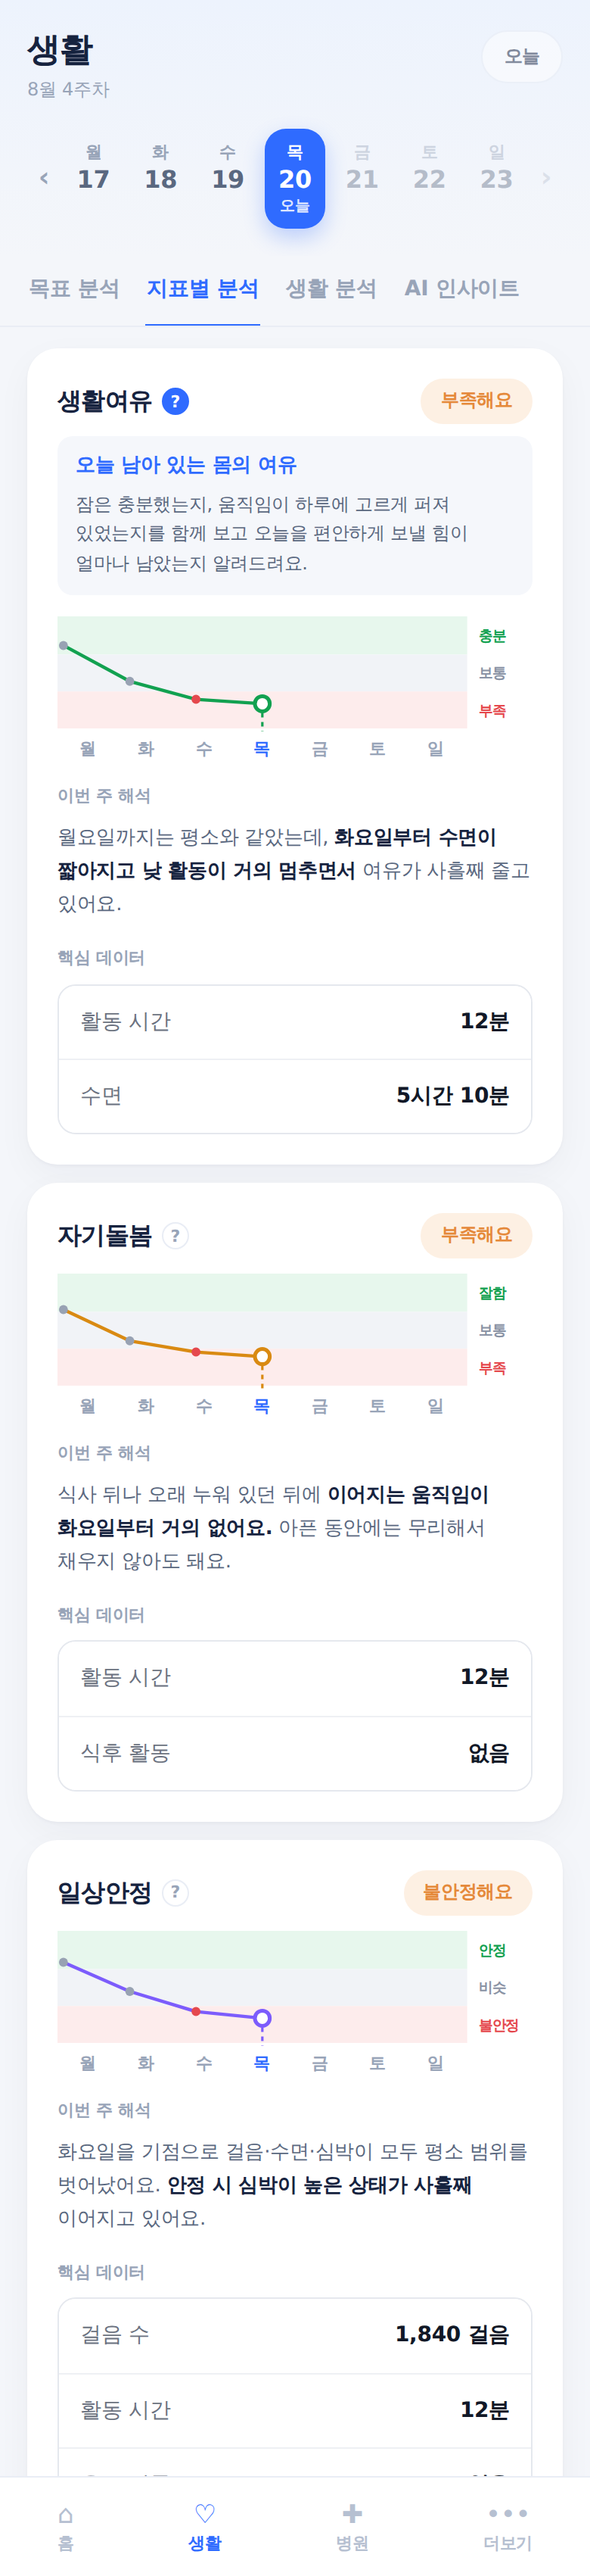
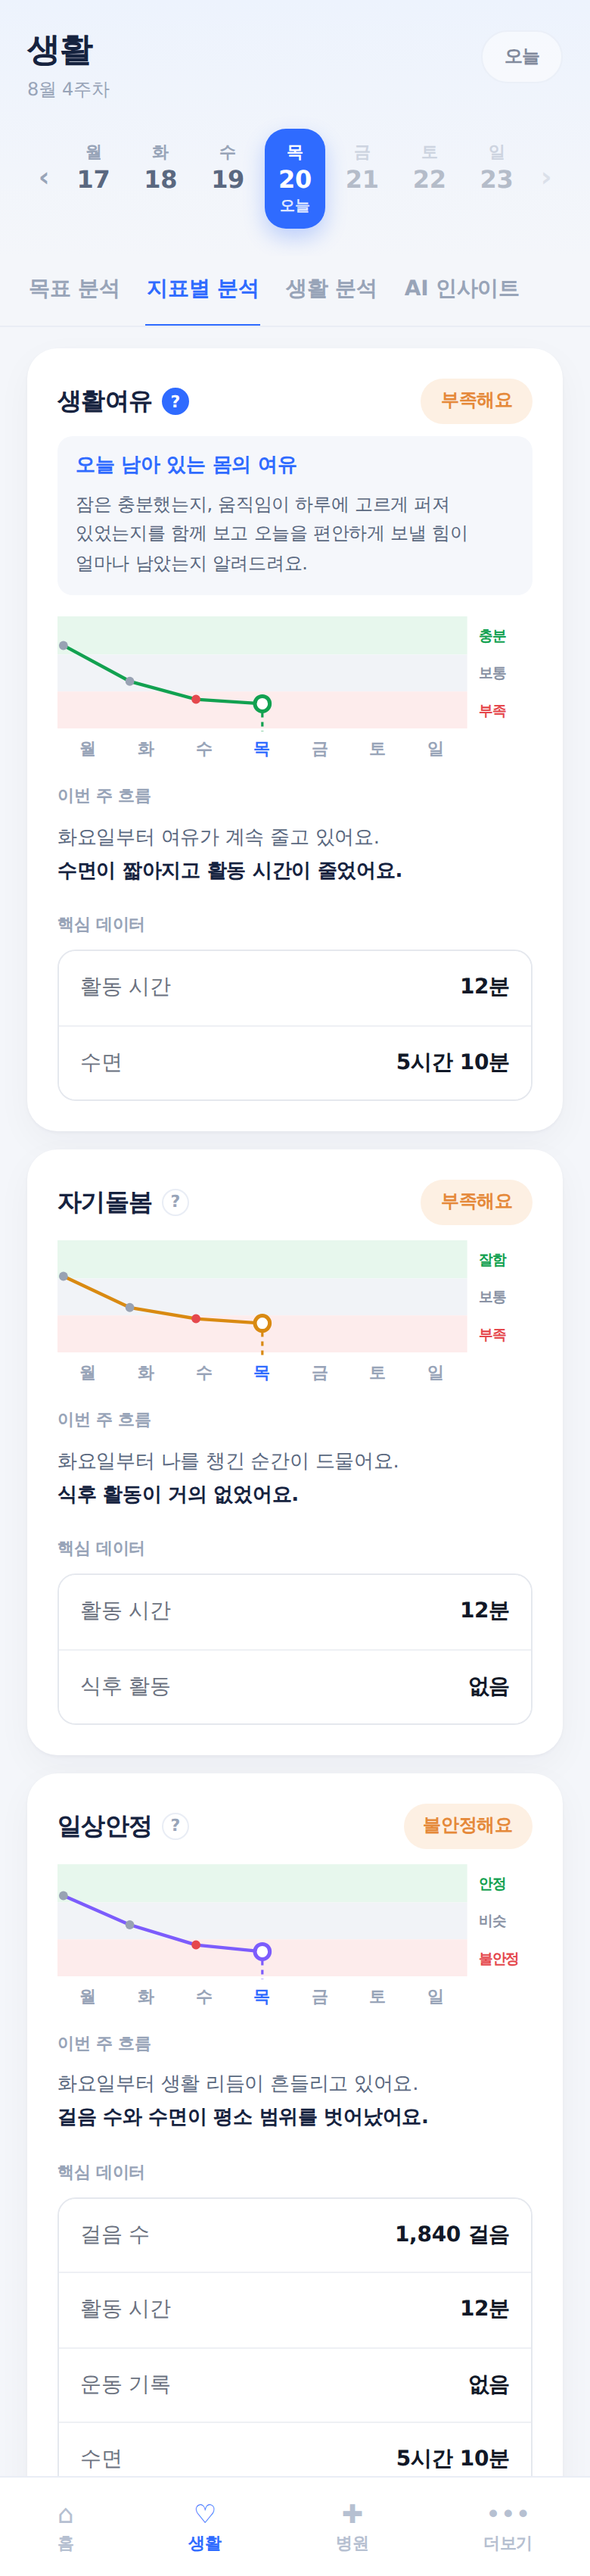
지표별 분석: '이번 주 흐름' 두 줄 구조(A안) 반영

diff --git a/prototype.html b/prototype.html
@@ -4193,9 +4193,9 @@ const CASE_DATA = {
     metricState:{ margin:'good', selfcare:'good', steady:'good' },
     metricWeek:{ margin:[74,76,78,80,null,null,null], selfcare:[68,70,72,74,null,null,null], steady:[72,76,74,78,null,null,null] },
     metricIns:{
-      margin:'수면이 일정하게 채워지고 활동이 하루 중 고르게 나뉘어, <b>여유가 넉넉한 흐름</b>이 이어지고 있어요.',
-      selfcare:'식사 뒤와 오래 앉아 있던 뒤에 <b>짧은 걷기가 대부분 이어졌어요.</b>',
-      steady:'수면·걸음·심박이 <b>평소 범위 안에서 크게 흔들리지 않았어요.</b>' },
+      margin:'이번 주 여유가 넉넉하게 유지되고 있어요.<br><b>수면이 일정하고 활동 시간이 고르게 나뉘었어요.</b>',
+      selfcare:'챙길 순간마다 잘 움직이고 있어요.<br><b>식후 활동으로 짧은 걷기가 이어졌어요.</b>',
+      steady:'생활 리듬이 평소처럼 이어지고 있어요.<br><b>걸음 수 · 수면이 평소 범위 안에 있었어요.</b>' },
     series:{
       sleep:{v:[7.2,7.1,7.4,7.3,null,null,null], t:['7시간 12분','7시간 6분','7시간 24분','7시간 18분','–','–','–'], avg:'7시간 15분'},
       bed:  {v:[23.17,23.25,23.1,23.2,null,null,null], t:['23시 10분','23시 15분','23시 6분','23시 12분','–','–','–'], avg:'23시 11분'},
@@ -4237,9 +4237,9 @@ const CASE_DATA = {
     metricState:{ margin:'low', selfcare:'low', steady:'low' },
     metricWeek:{ margin:[74,42,26,22,null,null,null], selfcare:[68,40,30,26,null,null,null], steady:[72,46,28,22,null,null,null] },
     metricIns:{
-      margin:'월요일까지는 평소와 같았는데, <b>화요일부터 수면이 짧아지고 낮 활동이 거의 멈추면서</b> 여유가 사흘째 줄고 있어요.',
-      selfcare:'식사 뒤나 오래 누워 있던 뒤에 <b>이어지는 움직임이 화요일부터 거의 없어요.</b> 아픈 동안에는 무리해서 채우지 않아도 돼요.',
-      steady:'화요일을 기점으로 걸음·수면·심박이 모두 평소 범위를 벗어났어요. <b>안정 시 심박이 높은 상태가 사흘째</b> 이어지고 있어요.' },
+      margin:'화요일부터 여유가 계속 줄고 있어요.<br><b>수면이 짧아지고 활동 시간이 줄었어요.</b>',
+      selfcare:'화요일부터 나를 챙긴 순간이 드물어요.<br><b>식후 활동이 거의 없었어요.</b>',
+      steady:'화요일부터 생활 리듬이 흔들리고 있어요.<br><b>걸음 수와 수면이 평소 범위를 벗어났어요.</b>' },
     series:{
       sleep:{v:[7.2,5.9,5.3,5.17,null,null,null], t:['7시간 12분','5시간 54분','5시간 18분','5시간 10분','–','–','–'], avg:'5시간 54분'},
       bed:  {v:[23.17,23.83,24.67,23.5,null,null,null], t:['23시 10분','23시 50분','00시 40분','23시 30분','–','–','–'], avg:'23시 47분'},
@@ -4450,7 +4450,7 @@ function metricCard(m, scores, i, dayLabels, basisLabel, valFn, judgeFn){
     </div>
     <div class="mc-def" hidden><span class="dq">${meta.desc}</span><p>${meta.expl}</p></div>
     ${bandGraph(scores, i, color, BAND_WORDS[m.k], dayLabels)}
-    <div class="src-lab">이번 주 해석</div><p class="mc-in" style="margin-top:0">${m.ins}</p>
+    <div class="src-lab">이번 주 흐름</div><p class="mc-in" style="margin-top:0">${m.ins}</p>
     <div class="src-lab">핵심 데이터</div>
     <div class="mc-rows">${core.map(d=>
       `<div class="mc-row"><b>${d.n}</b><span class="v">${valFn(d.n==='식후 활동'?'운동 기록':d.n,i)}</span></div>`).join('')}</div>
@@ -4469,9 +4469,9 @@ function renderMetricPaneHistory(offset){
   const i = 6;
   const wl = weekLabelFor(offset);
   const cards = [
-    {nm:'생활여유', k:'margin',   s:h.metricScores.recovery, ins:'부담과 여유의 균형을 보면, 이 주는 <b>대체로 여유가 유지</b>된 편이었어요.'},
-    {nm:'자기돌봄', k:'selfcare', s:h.metricScores.load.map(v=>100-v), ins:'조절할 수 있던 순간과 실제 움직임을 보면, 이 주는 <b>절반 정도 이어졌어요</b>.'},
-    {nm:'일상안정', k:'steady',   s:h.metricScores.rhythm, ins:'수면·걸음·심박의 흔들림을 보면, 이 주는 <b>평소 범위 안에서 이어졌어요</b>.'}
+    {nm:'생활여유', k:'margin',   s:h.metricScores.recovery, ins:'이 주는 여유가 대체로 유지됐어요.<br><b>수면과 활동 시간이 평소 수준이었어요.</b>'},
+    {nm:'자기돌봄', k:'selfcare', s:h.metricScores.load.map(v=>100-v), ins:'이 주는 챙길 순간의 절반 정도를 움직였어요.<br><b>식후 활동이 며칠 이어졌어요.</b>'},
+    {nm:'일상안정', k:'steady',   s:h.metricScores.rhythm, ins:'이 주는 생활 리듬이 평소처럼 이어졌어요.<br><b>걸음 수 · 수면이 평소 범위 안에 있었어요.</b>'}
   ];
   const dayLabels = ['월','화','수','목','금','토','일'];
   const valOfH = (name,idx) => (h.dayvals[name] && h.dayvals[name][idx]) || DATA_MAP.find(d=>d.n===name).today;

diff --git a/wip-metric.html b/wip-metric.html
@@ -590,7 +590,7 @@ const COMMON_INFO = [
   ["지표명","고정","생활여유 · 자기돌봄 · 일상안정 3개 카드, 순서 고정"],
   ["구간 배지","지표 구간 판정","생활여유: 충분해요 / 보통이에요 / 부족해요<br>자기돌봄: 잘하고 있어요 / 보통이에요 / 부족해요<br>일상안정: 안정적이에요 / 비슷해요 / 불안정해요"],
   ["주간 그래프","요일별 지표 구간","월~일 7칸. 배경 3구간 띠(위: 충분 · 잘함 · 안정 / 가운데: 보통 · 비슷 / 아래: 부족 · 불안정) 위에 점과 선. 선택한 날에 세로 점선 표시, 미래 요일은 비움"],
-  ["이번 주 해석","지표 해석 문장","한두 문장. 핵심 원인은 굵게 강조"],
+  ["이번 주 흐름","지표 해석 문장","두 줄 고정: ① 흐름 요약 ② 이유(굵게). 날짜를 바꿔도 주 단위 문장 유지"],
   ["핵심 데이터","건강 데이터 연동값","생활여유: 활동 시간 · 수면<br>자기돌봄: 활동 시간 · 식후 활동<br>일상안정: 걸음 수 · 활동 시간 · 운동 기록 · 수면<br>선택한 날의 값"]
 ];
 const SIDE = {
@@ -600,9 +600,12 @@ const SIDE = {
     spec:[["진입 경로","하단 생활 탭 → 상단 탭 ‘지표별 분석’"],
       ["날짜 선택","상단 날짜 띠(월~일)에서 날짜를 고르면 세 카드가 그날 기준으로 다시 표시됨. 오늘 이후 날짜는 선택 불가. ‘오늘’ 버튼으로 오늘로 복귀"],
       ["주 이동","날짜 띠 좌우 화살표로 지난 주 이동. 지난 주는 읽기 전용 화면으로 전환"],
-      ["카드 구성","지표명 + ‘?’ → 구간 배지 → 주간 그래프 → 이번 주 해석 → 핵심 데이터"],
+      ["카드 구성","지표명 + ‘?’ → 구간 배지 → 주간 그래프 → 이번 주 흐름 → 핵심 데이터"],
       ["점수 표시","숫자 점수 · 전일 대비 방향 · y축 눈금은 표시하지 않음. 구간(3단계)으로만 전달"],
       ["구간 기준","내부 값 0~100 중 66 이상: 좋은 구간, 33 이상: 보통, 33 미만: 낮은 구간"],
+      ["이번 주 흐름 구성","두 줄 고정. ① 이번 주 방향 요약(유지 · 좋아짐 · 줄어듦 · 들쭉날쭉) ② 이유 — 아래 핵심 데이터 항목 이름을 그대로 사용하고 이 줄만 굵게"],
+      ["이번 주 흐름 작성 규칙","한 줄 25자 안팎, 두 줄 합계 60자 이내. 요일은 ‘화요일부터’처럼 표기. 숫자 점수 · 퍼센트 · 진단이나 몸 상태 단정(‘아픈 동안’ 등) · 행동 지시(‘~하세요’) 미사용. 행동 제안은 오늘의 목표 · 코칭에서 다룸"],
+      ["이번 주 흐름 예외","기록 2일 이하: ‘아직 흐름을 말하기엔 기록이 적어요.’ 한 줄 / 관찰 중 카드: 문장 없음"],
       ["비교 기준","생활여유 · 자기돌봄: 내 평소 범위와 비교. 일상안정: 최근 7일을 평소 21일과 비교"]]},
   info:{id:"LIFE-002", title:"지표 설명 펼침", img:()=>"info",
     desc:"지표명 옆 ‘?’를 누르면 카드 안에 지표 정의가 펼쳐지는 상태.",
@@ -625,7 +628,7 @@ const SIDE = {
   lastweek:{id:"LIFE-002", title:"지난 주 (읽기 전용)", img:()=>"lastweek",
     desc:"날짜 띠에서 지난 주로 이동했을 때 그 주 일요일 기준으로 세 지표를 보여주는 상태.",
     info:[["읽기 전용 안내","고정 문구","‘✓ N월 N주(M.D~M.D)는 이미 끝난 주라 읽기 전용이에요.’"],["기준일","주 정보","그 주 일요일 (그래프 점선도 일요일)"]].concat(COMMON_INFO.slice(1)),
-    spec:[["기준","끝난 주의 일요일 기준. 그 주 해석 문장으로 표시"],
+    spec:[["기준","끝난 주의 일요일 기준. 이번 주 흐름은 ‘이 주는 ~’처럼 돌아보는 말투의 두 줄"],
       ["변경","끝난 주는 데이터가 확정돼 다시 계산하지 않음"],
       ["기록 없음","상세 기록이 없는 주는 ‘아직 상세 기록이 준비되지 않았어요. \"이번 주\"로 돌아가 기록을 확인해보세요.’ 안내"]]}
 };
